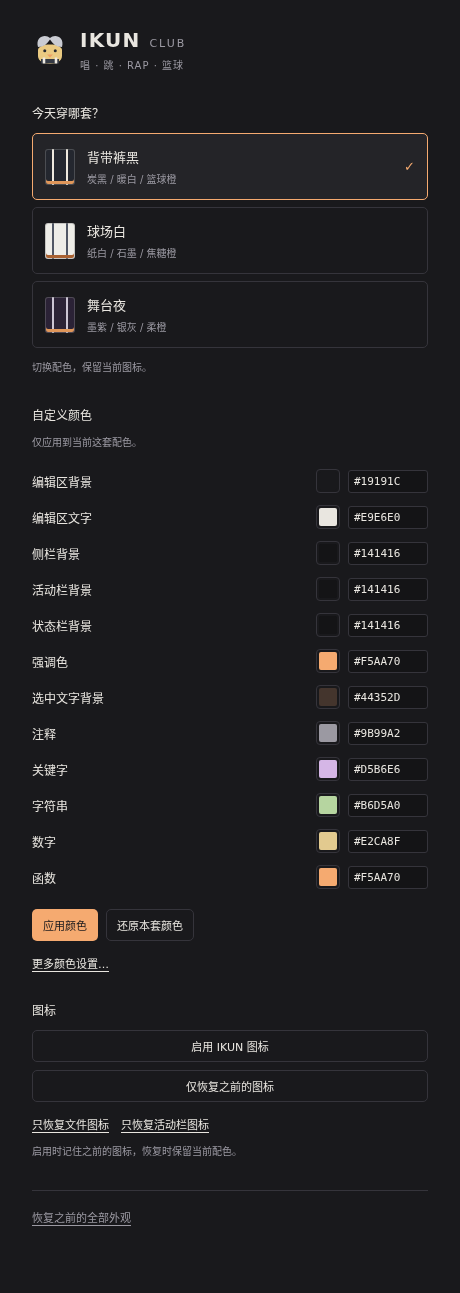
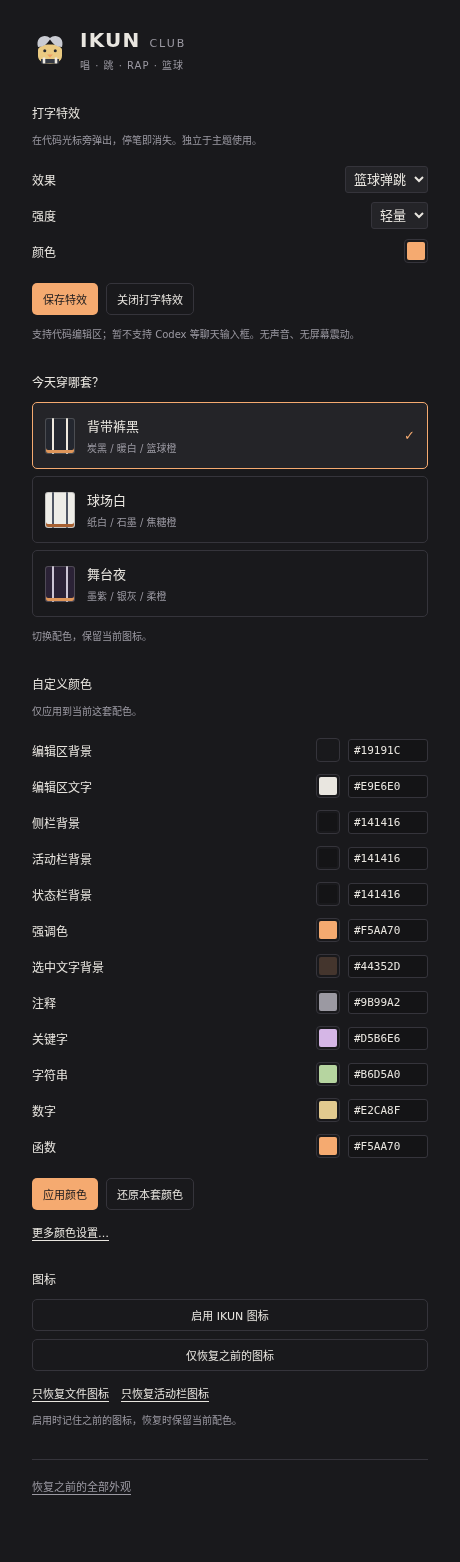
feat: add local cursor typing effects
- 新增篮球、小鸡和火花动画，支持独立开关、颜色与强度设置
- 使用编辑器装饰绘制，不修改输入内容；过滤撤销、删除和批量变化
- 修正动画图片导致的文字基线偏移，验证多个字号与动画清理
- 标明仅支持代码编辑区，暂不支持第三方聊天 Webview

diff --git a/src/typing-effects.js b/src/typing-effects.js
@@ -1,0 +1,96 @@
+const fs = require('node:fs');
+const path = require('node:path');
+const STYLES = ['basketball', 'chick', 'spark'];
+const FRAMES = 12;
+function frameSvg(style, frame, color, intensity = 'subtle') {
+  const t = frame / (FRAMES - 1), strong = intensity === 'lively';
+  const alpha = Math.pow(1 - t, .65).toFixed(3);
+  const x = 9 + t * (strong ? 17 : 11), y = 22 - Math.sin(t * Math.PI) * (strong ? 7 : 4);
+  const r = strong ? 5 : 4;
+  const particles = Array.from({length:strong ? 5 : 3}, (_, i) => {
+    const a = -Math.PI * (.15 + i * .22), distance = 3 + t * (strong ? 16 : 11);
+    const px = 8 + Math.cos(a) * distance, py = 23 + Math.sin(a) * distance;
+    return `<circle cx="${px.toFixed(2)}" cy="${py.toFixed(2)}" r="${(1.1-t*.5).toFixed(2)}" fill="${color}"/>`;
+  }).join('');
+  let mark = '';
+  if (style === 'basketball') mark = `<g transform="translate(${x} ${y}) rotate(${t*210})"><circle r="${r}" fill="${color}"/><path d="M-${r} 0H${r}M0 -${r}V${r}M-2 -3Q2 0 -2 3M2 -3Q-2 0 2 3" fill="none" stroke="#362B28" stroke-width=".65"/></g>`;
+  if (style === 'chick') mark = `<g transform="translate(${x-5} ${y-6})"><ellipse cx="5" cy="6" rx="4.5" ry="5" fill="${color}"/><path d="M.5 4C-1 0 3-1 5 1C7-1 11 0 9.5 4Q6 4 5 2Q3 4 .5 4Z" fill="#AEB3C2"/><circle cx="3" cy="5.5" r=".55" fill="#28252A"/><circle cx="7" cy="5.5" r=".55" fill="#28252A"/><path d="M4 7H6L5 8Z" fill="#CC743D"/><path d="M2 9H8V11H2Z" fill="#343943"/><path d="M3 9V11M7 9V11" stroke="#EEEAE2" stroke-width="1"/></g>`;
+  if (style === 'spark') mark = `<path d="M${x} ${y-3}V${y+3}M${x-3} ${y}H${x+3}" stroke="${color}" stroke-width="1"/>`;
+  return `<svg xmlns="http://www.w3.org/2000/svg" width="40" height="28" viewBox="0 0 40 28"><g opacity="${alpha}">${particles}${mark}</g></svg>`;
+}
+// TextDocument changes cannot distinguish short pastes or another extension's small edit.
+// Limit to small insertions at the active caret and exclude undo, deletion and bulk changes.
+function typingPosition(vscode, event, editor) {
+  if (!editor || event.document !== editor.document || event.reason || event.contentChanges.length !== 1) return;
+  if (editor.selections.length !== 1) return;
+  const change = event.contentChanges[0];
+  if (!change.text || [...change.text].length > 8 || /[\r\n]/.test(change.text) || change.rangeLength > 8) return;
+  const caret = editor.selection.active;
+  const atOldCaret = caret.isEqual(change.range.end);
+  const end = new vscode.Position(change.range.start.line, change.range.start.character + change.text.length);
+  if (!atOldCaret && !caret.isEqual(end)) return;
+  return end;
+}
+function activateTyping(vscode, context) {
+  let timer, currentEditor, activeType, types = [], signature = '', last = 0, disposed = false;
+  function clear() {
+    clearTimeout(timer); timer = undefined;
+    if (currentEditor && activeType) currentEditor.setDecorations(activeType, []);
+    currentEditor = activeType = undefined;
+  }
+  function release() {clear();for (const type of types) type.dispose();types=[];signature='';}
+  function settings(editor) {
+    const c = vscode.workspace.getConfiguration('ikun.typing');
+    const style = c.get('style', 'basketball');
+    const color = c.get('color', '#F5AA70');
+    const fontSize = Math.max(6, Number(vscode.workspace.getConfiguration('editor',editor?.document.uri).get('fontSize',14)) || 14);
+    return {fontSize,enabled:c.get('enabled', true),style:STYLES.includes(style)?style:'basketball',color:/^#[\da-f]{6}$/i.test(color)?color:'#F5AA70',intensity:c.get('intensity','subtle')==='lively'?'lively':'subtle'};
+  }
+  function prepare(options) {
+    const key = JSON.stringify(options);
+    if (signature === key) return;
+    release();
+    const dir = path.join(context.globalStorageUri.fsPath, 'typing');
+    fs.mkdirSync(dir, {recursive:true});
+    for (const file of fs.readdirSync(dir)) if (/^(basketball|chick|spark)-[a-f0-9]{6}-(subtle|lively)-\d+\.svg$/i.test(file)) fs.unlinkSync(path.join(dir,file));
+    for (let i=0; i<FRAMES; i++) {
+      const file = path.join(dir, `${options.style}-${options.color.slice(1)}-${options.intensity}-${i}.svg`);
+      fs.writeFileSync(file,frameSvg(options.style,i,options.color,options.intensity));
+      types.push(vscode.window.createTextEditorDecorationType({
+        rangeBehavior:vscode.DecorationRangeBehavior.ClosedClosed,
+        // SVG content keeps its intrinsic 28px height inside the inline attachment.
+        // Compensate above the baseline; zero net width prevents moving following text.
+        after:{contentIconPath:vscode.Uri.file(file),width:'32px',height:'1em',margin:`${Math.min(0,options.fontSize-29)}px -32px 0 0`}
+      }));
+    }
+    signature = key;
+  }
+  function pulse(editor, position) {
+    const options = settings(editor);
+    if (disposed || !options.enabled || !vscode.window.state.focused || vscode.workspace.getConfiguration('workbench').get('reduceMotion') === 'on') return;
+    if (Date.now()-last < 100) return;
+    last = Date.now();prepare(options);clear();currentEditor=editor;
+    let frame = 0;
+    const draw = () => {
+      if (disposed || currentEditor !== vscode.window.activeTextEditor) {clear();return;}
+      if (activeType) editor.setDecorations(activeType, []);
+      if (frame >= types.length) {clear();return;}
+      activeType=types[frame++];editor.setDecorations(activeType,[new vscode.Range(position,position)]);
+      timer=setTimeout(draw,45);
+    };
+    draw();
+  }
+  const subscriptions = [
+    vscode.workspace.onDidChangeTextDocument(event=>{
+      const editor=vscode.window.activeTextEditor, position=typingPosition(vscode,event,editor);
+      if(position) pulse(editor,position);else if(event.document===currentEditor?.document) clear();
+    }),
+    vscode.window.onDidChangeActiveTextEditor(clear),
+    vscode.window.onDidChangeWindowState(state=>{if(!state.focused)clear();}),
+    vscode.workspace.onDidChangeConfiguration(e=>{if(e.affectsConfiguration('ikun.typing')||e.affectsConfiguration('workbench.reduceMotion')||e.affectsConfiguration('editor.fontSize'))release();}),
+    vscode.commands.registerCommand('ikun.toggleTyping',async()=>{const c=vscode.workspace.getConfiguration('ikun.typing');await c.update('enabled',!c.get('enabled',true),true);}),
+    vscode.commands.registerCommand('ikun.previewTyping',()=>{const e=vscode.window.activeTextEditor;if(e)pulse(e,e.selection.active);else vscode.window.showInformationMessage('先打开一个代码文件，再预览打字特效。');})
+  ];
+  context.subscriptions.push({dispose(){disposed=true;release();for(const s of subscriptions)s.dispose();}});
+}
+module.exports = {activateTyping, frameSvg, typingPosition, FRAMES};

diff --git a/src/extension.js b/src/extension.js
@@ -5,6 +5,7 @@ const path = require('node:path');
 const {THEMES, FIELDS, colorValues, saveColors, resetColors} = require('./colors');
 const KEYS = ['colorTheme', 'iconTheme', 'productIconTheme'];
 function activate(context) {
+  require('./typing-effects').activateTyping(vscode,context);
   const views = new Set();
   let busy = false;
   let pending = Promise.resolve();
@@ -42,7 +43,8 @@ function activate(context) {
     const previous = context.globalState.get('previous') || {};
     const canRestore = key => Object.hasOwn(previous,key);
     const colors = colorValues(vscode, context.extensionPath, currentTheme);
-    const values = {CSP:webview.cspSource, NONCE:nonce, CSS:media('club.css'), JS:media('club.js'), CHICKEN:icon('chicken'), DAILY:String(currentTheme === THEMES.daily[0]), LIGHT:String(currentTheme === THEMES.light[0]), STAGE:String(currentTheme === THEMES.stage[0]), THEME:currentTheme, RESTORE_ICONS_DISABLED:canRestore('iconTheme')||canRestore('productIconTheme')?'':'disabled', RESTORE_FILE_DISABLED:canRestore('iconTheme')?'':'disabled', RESTORE_PRODUCT_DISABLED:canRestore('productIconTheme')?'':'disabled', COLOR_DISABLED:colors?'':'disabled', COLOR_HINT:colors?'仅应用到当前这套配色。':'先选择上方的一套 IKUN 配色。'};
+    const typing = vscode.workspace.getConfiguration('ikun.typing');
+    const values = {TYPING_ENABLED:typing.get('enabled',true)?'关闭打字特效':'开启打字特效', TYPING_STYLE:typing.get('style','basketball'), TYPING_COLOR:typing.get('color','#F5AA70'), TYPING_INTENSITY:typing.get('intensity','subtle'), CSP:webview.cspSource, NONCE:nonce, CSS:media('club.css'), JS:media('club.js'), CHICKEN:icon('chicken'), DAILY:String(currentTheme === THEMES.daily[0]), LIGHT:String(currentTheme === THEMES.light[0]), STAGE:String(currentTheme === THEMES.stage[0]), THEME:currentTheme, RESTORE_ICONS_DISABLED:canRestore('iconTheme')||canRestore('productIconTheme')?'':'disabled', RESTORE_FILE_DISABLED:canRestore('iconTheme')?'':'disabled', RESTORE_PRODUCT_DISABLED:canRestore('productIconTheme')?'':'disabled', COLOR_DISABLED:colors?'':'disabled', COLOR_HINT:colors?'仅应用到当前这套配色。':'先选择上方的一套 IKUN 配色。'};
     const rows = FIELDS.map(([id, label]) => {
       const value = colors?.[id] || '#808080';
       const hex = /^#[\da-f]{6}$/i.test(value) ? value : value.slice(0,7);
@@ -71,6 +73,12 @@ function activate(context) {
         await resetColors(vscode,context,message.theme);
       }
       else if (message.command === 'restore') {await resetColors(vscode,context); await restore();}
+      else if (message.command === 'toggleTyping') await vscode.commands.executeCommand('ikun.toggleTyping');
+      else if (message.command === 'saveTyping') {
+        if (!['basketball','chick','spark'].includes(message.style) || !['subtle','lively'].includes(message.intensity) || !/^#[\da-f]{6}$/i.test(message.color)) throw Error('打字特效配置无效。');
+        const c=vscode.workspace.getConfiguration('ikun.typing');
+        for (const key of ['style','color','intensity']) await c.update(key,message[key],true);
+      }
       else if (message.command === 'advancedColors') await vscode.commands.executeCommand('workbench.action.openSettings','workbench.colorCustomizations');
       for (const view of views) render(view.webview);
     } catch (e) { vscode.window.showErrorMessage(`IKUN: ${e.message}`); for (const view of views) view.webview.postMessage({type:'result',ok:false,message:e.message}); }
@@ -93,6 +101,6 @@ function activate(context) {
   context.subscriptions.push(vscode.window.registerWebviewViewProvider('ikun.practice',{resolveWebviewView:attach}));
   const refresh = () => {if (!busy) for (const view of views) render(view.webview);};
   context.subscriptions.push(vscode.window.onDidChangeActiveColorTheme(refresh));
-  context.subscriptions.push(vscode.workspace.onDidChangeConfiguration(e => {if(e.affectsConfiguration('workbench') || e.affectsConfiguration('editor.tokenColorCustomizations') || e.affectsConfiguration('editor.semanticTokenColorCustomizations')) refresh();}));
+  context.subscriptions.push(vscode.workspace.onDidChangeConfiguration(e => {if(e.affectsConfiguration('ikun.typing') || e.affectsConfiguration('workbench') || e.affectsConfiguration('editor.tokenColorCustomizations') || e.affectsConfiguration('editor.semanticTokenColorCustomizations')) refresh();}));
 }
 module.exports = { activate };

diff --git a/media/club.css b/media/club.css
@@ -3,3 +3,5 @@
 fieldset{margin:0;padding:0;border:0;min-width:0}fieldset:disabled{opacity:.45}.color-row{display:flex;align-items:center;gap:8px;min-height:36px}.color-row>span{flex:1;min-width:0;font-size:12px}.color-row input[type=color]{appearance:none;width:24px;height:24px;flex-shrink:0;padding:2px;border:1px solid var(--vscode-widget-border,#35343b);border-radius:4px;background:transparent;cursor:pointer}.color-row input[type=color]::-webkit-color-swatch-wrapper{padding:0}.color-row input[type=color]::-webkit-color-swatch{border:0;border-radius:2px}.hex{width:80px;min-width:0;padding:4px 5px;background:var(--vscode-input-background,#141416);color:var(--vscode-input-foreground,#e9e6e0);border:1px solid var(--vscode-input-border,#35343b);border-radius:3px;font:11px var(--vscode-editor-font-family,monospace)}input:focus-visible{outline:1px solid var(--vscode-focusBorder,#f5aa70)}input:invalid{border-color:var(--vscode-errorForeground,#f28f91)}.actions{display:flex;flex-wrap:wrap;gap:8px;margin-top:14px}.actions button,.icon-actions>button{padding:7px 10px;font-size:11px}.primary{background:var(--vscode-button-background,#f5aa70);color:var(--vscode-button-foreground,#19191c);border-color:transparent}.advanced{margin-top:14px}.icon-actions{display:grid;gap:8px}.split{display:flex;gap:12px;flex-wrap:wrap;margin-top:6px}.hint{margin-bottom:12px}button:disabled{cursor:default}@media(max-width:290px){.color-row{gap:5px}.hex{width:70px}.color-row>span{font-size:11px}}
 
 button:disabled{opacity:.45;cursor:default}
+
+select{max-width:130px;padding:4px;background:var(--vscode-dropdown-background,#242428);color:var(--vscode-dropdown-foreground,#e9e6e0);border:1px solid var(--vscode-dropdown-border,#35343b);border-radius:3px;font:inherit}

diff --git a/media/club.html b/media/club.html
@@ -18,6 +18,17 @@
                 <p>唱 · 跳 · RAP · 篮球</p>
             </div>
         </header>
+        <section aria-labelledby="typing-title">
+            <h2 id="typing-title">打字特效</h2>
+            <p class="hint">在代码光标旁弹出，停笔即消失。独立于主题使用。</p>
+            <form id="typing" data-style="{{TYPING_STYLE}}" data-intensity="{{TYPING_INTENSITY}}">
+                <label class="color-row"><span>效果</span><select name="style" aria-label="打字效果"><option value="basketball">篮球弹跳</option><option value="chick">中分小鸡</option><option value="spark">轻盈火花</option></select></label>
+                <label class="color-row"><span>强度</span><select name="intensity" aria-label="特效强度"><option value="subtle">轻量</option><option value="lively">活跃</option></select></label>
+                <label class="color-row"><span>颜色</span><input type="color" name="color" value="{{TYPING_COLOR}}" aria-label="特效颜色"></label>
+                <div class="actions"><button class="primary" type="submit">保存特效</button><button type="button" data-command="toggleTyping">{{TYPING_ENABLED}}</button></div>
+            </form>
+            <p class="hint">支持代码编辑区；暂不支持 Codex 等聊天输入框。无声音、无屏幕震动。</p>
+        </section>
         <section aria-labelledby="appearance">
             <h2 id="appearance">今天穿哪套？</h2>
             <div class="themes">

diff --git a/media/club.js b/media/club.js
@@ -2,6 +2,10 @@
   const vscode = typeof acquireVsCodeApi === 'function' ? acquireVsCodeApi() : {postMessage:message => window.dispatchEvent(new CustomEvent('ikun-command',{detail:message}))};
   const form = document.querySelector('#colors');
   const dirty = {};
+  const typing = document.querySelector('#typing');
+  typing.elements.style.value = typing.dataset.style || 'basketball';
+  typing.elements.intensity.value = typing.dataset.intensity || 'subtle';
+  typing.addEventListener('submit',event=>{event.preventDefault();send({command:'saveTyping',style:typing.elements.style.value,intensity:typing.elements.intensity.value,color:typing.elements.color.value});});
   function send(message) {
     vscode.postMessage(message);
     document.querySelector('#message').textContent = '正在应用…';

diff --git a/README.md b/README.md
@@ -6,6 +6,18 @@
 
 ![真实 VS Code 深色预览](docs/previews/workbench-dark.png)
 
+## 打字特效
+
+默认开启，独立于主题和图标运行。代码输入时，光标旁出现短暂的篮球、小鸡或火花；约半秒后消失，无声音、无屏幕震动。打开 **IKUN: 打开主题衣柜**，可切换效果、颜色、轻量 / 活跃强度。命令 **IKUN: 开关打字特效** 可随时关闭，**IKUN: 预览光标打字特效** 在当前代码光标处播放一次。
+
+![打字效果示意](docs/previews/typing-styles.png)
+
+仅支持 VS Code 代码编辑区，**不支持 Codex 等第三方聊天 Webview、终端、搜索框**。使用公开的文档变化与编辑器装饰接口，不注入其他扩展或修改 VS Code 安装文件。中文在上屏后触发，不监听候选框或系统键盘。
+
+删除、撤销、换行、多光标和大段粘贴不触发；公开 API 无法完全区分短粘贴、自动补全与输入，光标附近的小段插入也可能触发。`workbench.reduceMotion: "on"` 时暂停特效。没有输入内容记录或上传。
+
+设置项：`ikun.typing.enabled`、`ikun.typing.style`、`ikun.typing.color`、`ikun.typing.intensity`。
+
 ## 图标有梗，也有用
 
 - 文件夹采用暖橙色轮廓与深色背带；展开时前盖打开。源码、文档、测试目录各有不同标记。
@@ -29,7 +41,7 @@
 
 ## 安装与切换
 
-在扩展视图菜单选择 **从 VSIX 安装**，安装 `ikun-vscode-theme-0.3.0.vsix`。
+在扩展视图菜单选择 **从 VSIX 安装**，安装 `ikun-vscode-theme-0.4.0.vsix`。
 
 命令面板执行 **IKUN: 启用日常套装**，或 **IKUN: 打开主题衣柜** 选择配色。原来的 `ikun.openClub` 命令 ID 保持兼容。
 
